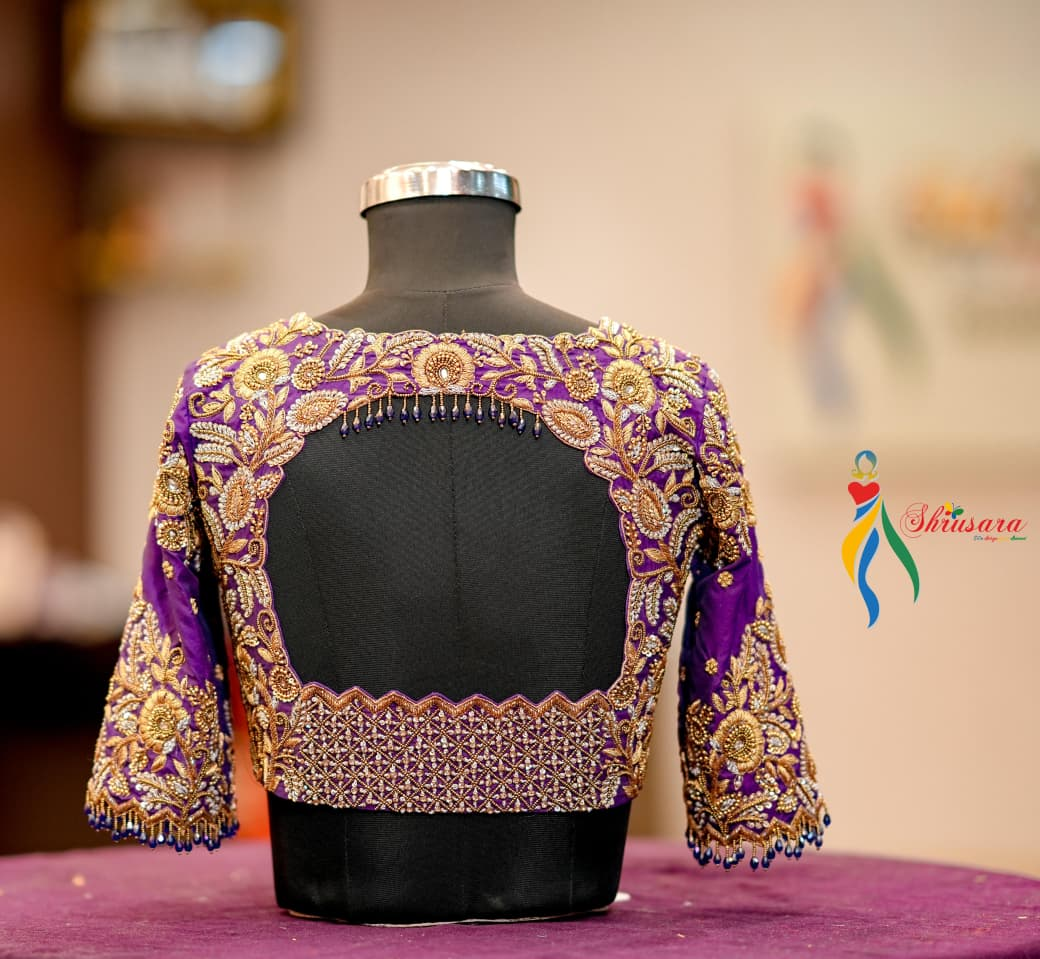
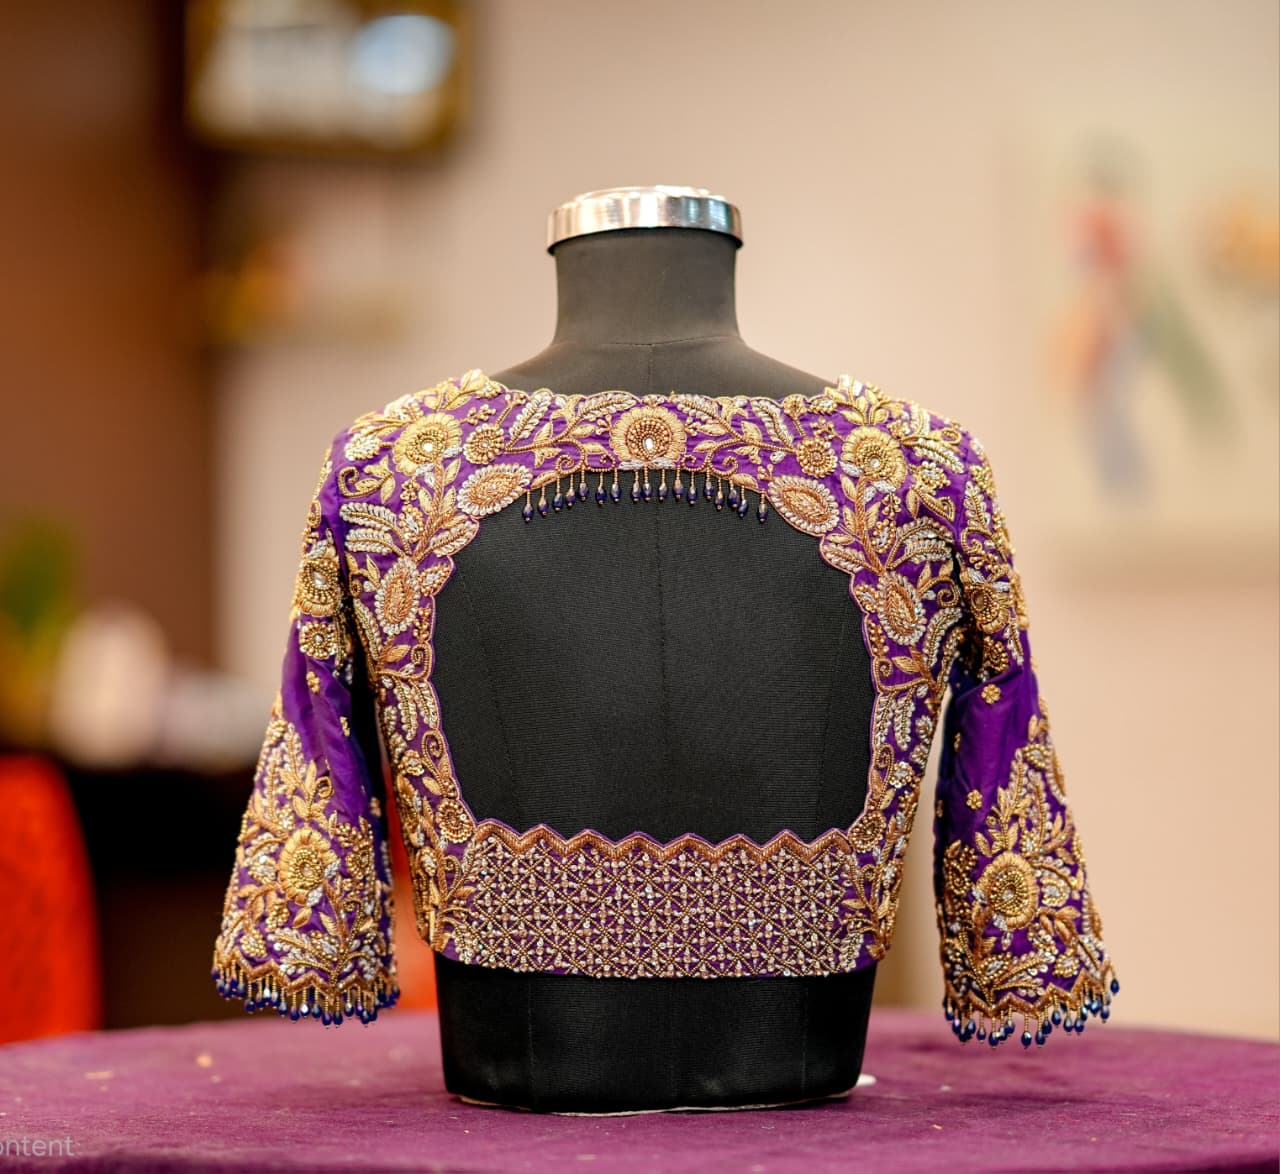
final clean structure

diff --git a/client/src/pages/BridalLandingPage.jsx b/client/src/pages/BridalLandingPage.jsx
@@ -11,6 +11,8 @@ import designer06 from '../assets/images/designer/designer-06.jpeg';
 import gown1 from "../assets/images/bridal/bridal/gown-1.jpeg";
 import gown3 from "../assets/images/bridal/bridal/gown-3.jpeg";
 import gown4 from "../assets/images/bridal/bridal/gown-4.jpeg";
+import img110 from '../assets/images/bridal/110.jpeg';
+import img120 from '../assets/images/bridal/120.jpeg';
 
 /**
  * SHRUSARA BRIDAL LANDING PAGE
@@ -1037,10 +1039,10 @@ const BridalLandingPage = () => {
                 <img src={b1} alt="Maggam work bridal blouse" />
               </div>
               <div className="bl-craft-img-card">
-                <img src={b3} alt="Aari work bridal blouse" />
+                <img src={img110} alt="Aari work bridal blouse" />
               </div>
               <div className="bl-craft-img-card">
-                <img src={b4} alt="Zari embroidery bridal blouse" />
+                <img src={img120} alt="Zari embroidery bridal blouse" />
               </div>
             </div>
           </div>